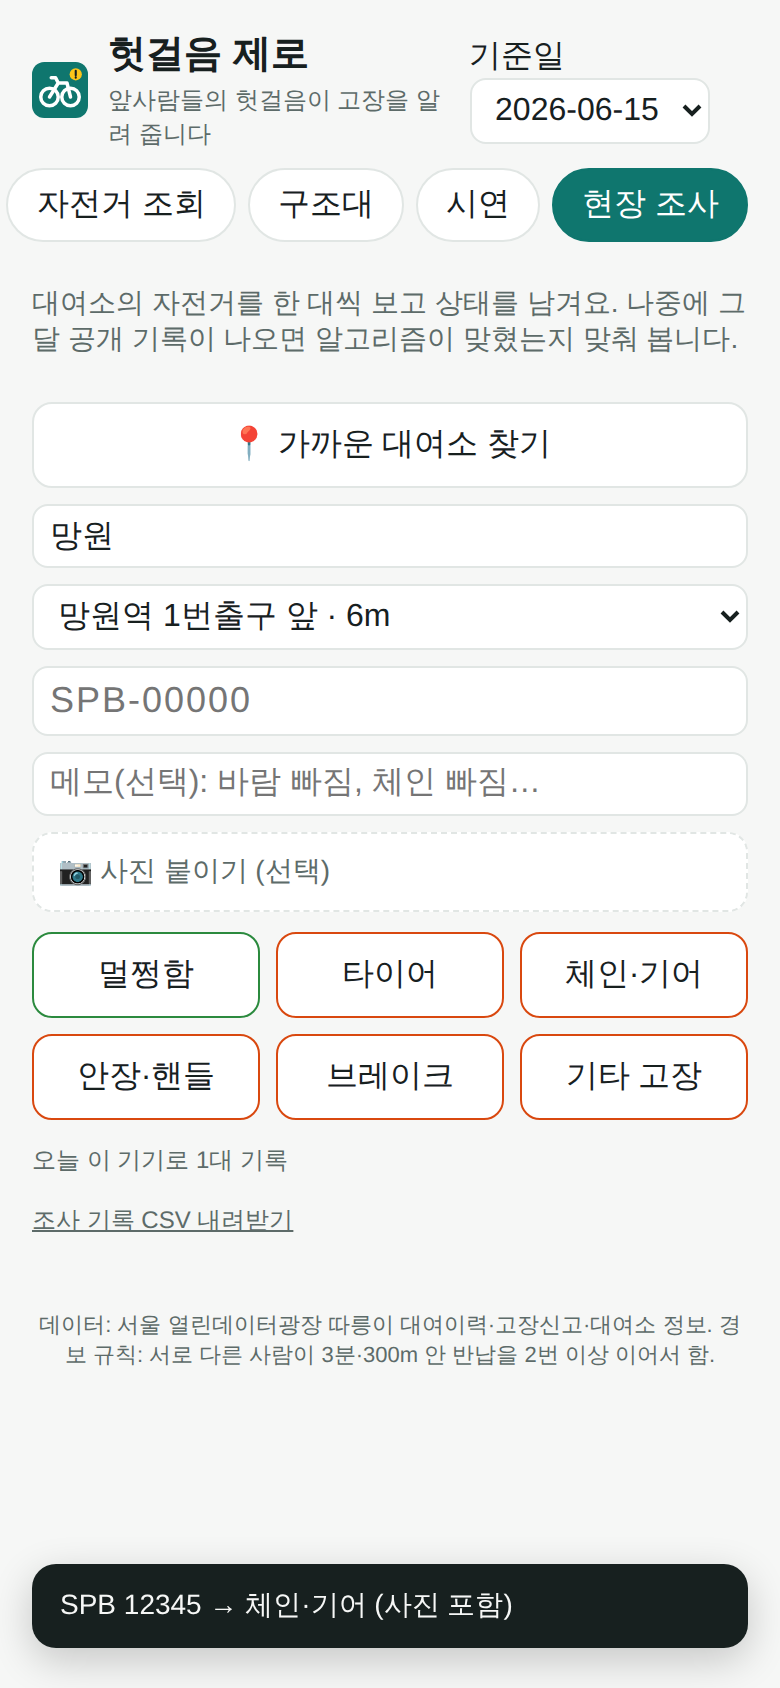
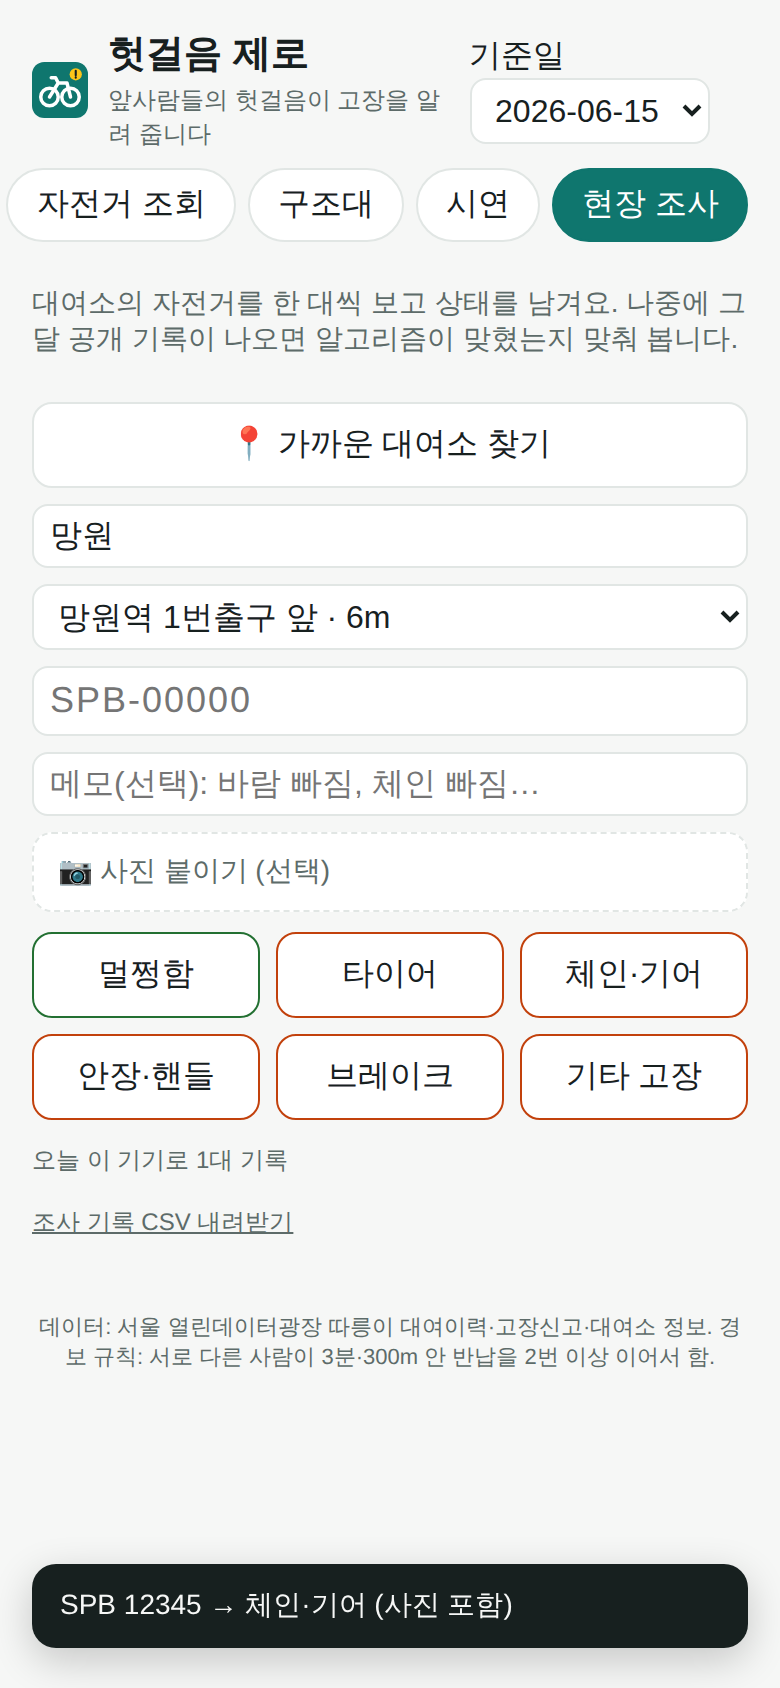
접근성: 탭 역할·입력칸 이름표·알림 읽어 주기, 글자 대비 4.5:1 검사(밝은·어두운 화면)와 색 고침

diff --git a/web/index.html b/web/index.html
@@ -19,19 +19,19 @@
   <div class="date"><label>기준일 <select id="day"></select></label></div>
 </header>
 
-<nav id="tabs">
-  <button data-tab="morning" class="on">아침 목록</button>
-  <button data-tab="lookup">자전거 조회</button>
-  <button data-tab="rescue">구조대</button>
-  <button data-tab="replay">시연</button>
-  <button data-tab="survey">현장 조사</button>
+<nav id="tabs" role="tablist" aria-label="화면">
+  <button data-tab="morning" role="tab" aria-controls="morning" aria-selected="true" class="on">아침 목록</button>
+  <button data-tab="lookup" role="tab" aria-controls="lookup" aria-selected="false">자전거 조회</button>
+  <button data-tab="rescue" role="tab" aria-controls="rescue" aria-selected="false">구조대</button>
+  <button data-tab="replay" role="tab" aria-controls="replay" aria-selected="false">시연</button>
+  <button data-tab="survey" role="tab" aria-controls="survey" aria-selected="false">현장 조사</button>
 </nav>
 
 <main>
-  <section id="morning" class="tab on">
+  <section id="morning" class="tab on" role="tabpanel">
     <div class="summary" id="morning-summary"></div>
     <div class="summary retro" id="morning-retro" hidden></div>
-    <div id="map"></div>
+    <div id="map" role="img" aria-label="의심 자전거가 있는 대여소 지도 (아래 목록과 같은 내용)"></div>
     <h2>정비 먼저 볼 곳</h2>
     <ol id="station-rank" class="rank"></ol>
     <h2>정비 동선 <span class="muted">(10곳을 도는 순서, 직선거리)</span></h2>
@@ -41,16 +41,16 @@
     <ul id="bike-list" class="bikes"></ul>
   </section>
 
-  <section id="lookup" class="tab">
+  <section id="lookup" class="tab" role="tabpanel">
     <p class="hint">따릉이를 빌리기 전에 자전거 번호(예: SPB-69683)를 넣거나 QR 을 비추세요.</p>
-    <form id="lookup-form"><input id="bike-input" placeholder="SPB-00000" autocomplete="off" autocapitalize="characters"><button>조회</button></form>
+    <form id="lookup-form"><input id="bike-input" aria-label="자전거 번호" placeholder="SPB-00000" autocomplete="off" autocapitalize="characters"><button>조회</button></form>
     <button id="scan-btn" class="secondary">QR 로 찍기</button>
     <video id="cam" playsinline muted hidden></video>
     <canvas id="cam-canvas" hidden></canvas>
-    <div id="lookup-result"></div>
+    <div id="lookup-result" aria-live="polite"></div>
   </section>
 
-  <section id="rescue" class="tab">
+  <section id="rescue" class="tab" role="tabpanel">
     <p class="hint">근처 의심 자전거를 3초만 봐 주세요. 확인 결과는 정비로 이어집니다.</p>
     <button id="rescue-near" class="secondary">📍 가까운 순서로</button>
     <div id="rescue-card"></div>
@@ -58,11 +58,11 @@
     <ul id="rescue-log" class="bikes"></ul>
   </section>
 
-  <section id="replay" class="tab">
+  <section id="replay" class="tab" role="tabpanel">
     <p class="hint">2026년 6월 15일 서울 따릉이 실제 기록을 빠르게 다시 돌립니다.</p>
     <div class="controls"><button id="play">▶ 재생</button><label>속도 <select id="speed"><option value="600">10분/초</option><option value="1800" selected>30분/초</option><option value="3600">1시간/초</option></select></label></div>
-    <div class="clock" id="clock">00:00</div>
-    <div id="replay-map"></div>
+    <div class="clock" id="clock" aria-live="off">00:00</div>
+    <div id="replay-map" role="img" aria-label="하루 재생 지도 (아래 숫자·기록과 같은 내용)"></div>
     <div class="legend"><span class="dot r"></span>경보 <span class="dot g"></span>막을 수 있던 헛걸음 <span class="dot b"></span>뒤늦은 고장 신고</div>
     <div class="counters">
       <div><b id="c-dud">0</b><span>헛대여</span></div>
@@ -72,13 +72,13 @@
     </div>
     <ul id="replay-feed" class="feed"></ul>
   </section>
-  <section id="survey" class="tab">
+  <section id="survey" class="tab" role="tabpanel">
     <p class="hint">대여소의 자전거를 한 대씩 보고 상태를 남겨요. 나중에 그달 공개 기록이 나오면 알고리즘이 맞혔는지 맞춰 봅니다.</p>
     <button id="near-btn" class="secondary">📍 가까운 대여소 찾기</button>
-    <input id="station-filter" placeholder="대여소 이름으로 찾기 (예: 망원역)" style="width:100%;margin-top:8px">
-    <select id="survey-station" style="width:100%;margin-top:8px"></select>
-    <form id="survey-form" style="margin-top:8px"><input id="survey-bike" placeholder="SPB-00000" autocomplete="off" autocapitalize="characters"></form>
-    <input id="survey-note" placeholder="메모(선택): 바람 빠짐, 체인 빠짐…" style="width:100%;margin-top:8px">
+    <input id="station-filter" aria-label="대여소 이름으로 찾기" placeholder="대여소 이름으로 찾기 (예: 망원역)" style="width:100%;margin-top:8px">
+    <select id="survey-station" aria-label="대여소" style="width:100%;margin-top:8px"></select>
+    <form id="survey-form" style="margin-top:8px"><input id="survey-bike" aria-label="조사한 자전거 번호" placeholder="SPB-00000" autocomplete="off" autocapitalize="characters"></form>
+    <input id="survey-note" aria-label="메모" placeholder="메모(선택): 바람 빠짐, 체인 빠짐…" style="width:100%;margin-top:8px">
     <label class="photo-btn"><input id="survey-photo" type="file" accept="image/*" capture="environment"><span id="survey-photo-label">📷 사진 붙이기 (선택)</span><img id="survey-thumb" alt="" hidden></label>
     <div class="choices three" id="survey-choices"></div>
     <p class="muted" id="survey-count"></p>

diff --git a/tests/web/smoke.js b/tests/web/smoke.js
@@ -26,6 +26,16 @@ const check = (ok, what) => { console.log((ok ? "  ✓ " : "  ✗ ") + what); if
   page.on("dialog", (d) => { errors.push("dialog: " + d.message()); d.dismiss(); });
   const shot = async (name) => { if (SHOTS) { fs.mkdirSync(SHOTS, { recursive: true }); await page.screenshot({ path: path.join(SHOTS, name + ".png") }); } };
   const tab = (t) => page.click(`#tabs button[data-tab="${t}"]`);
+  // 글자 대비 (WCAG AA 4.5:1) — 보이는 탭·머리글·탭 단추에서 기준 못 넘는 글자
+  const lowContrast = () => page.evaluate(() => {
+        const lum = (c) => { const v = c.match(/[\d.]+/g).slice(0, 3).map((x) => { x /= 255; return x <= 0.03928 ? x / 12.92 : ((x + 0.055) / 1.055) ** 2.4; }); return 0.2126 * v[0] + 0.7152 * v[1] + 0.0722 * v[2]; };
+        const bg = (el) => { for (; el; el = el.parentElement) { const c = getComputedStyle(el).backgroundColor; if (c && !/, 0\)$/.test(c) && c !== "transparent") return c; } return "rgb(255,255,255)"; };
+        return [...document.querySelectorAll(".tab.on *, header *, nav *")].filter((el) => el.offsetParent &&
+          [...el.childNodes].some((n) => n.nodeType === 3 && n.textContent.trim())).map((el) => {
+          const a = lum(getComputedStyle(el).color), b = lum(bg(el));
+          return [(Math.max(a, b) + 0.05) / (Math.min(a, b) + 0.05), el.textContent.trim().slice(0, 12)]; }).filter(([r]) => r < 4.5);
+      });
+
   try {
     await page.goto(URL, { waitUntil: "networkidle" });
     console.log("아침 목록");
@@ -114,6 +124,13 @@ const check = (ok, what) => { console.log((ok ? "  ✓ " : "  ✗ ") + what); if
     check(pr.ok && pb[0] === 0xff && pb[1] === 0xd8 && pb.length < 300000, `사진이 줄어 JPEG 로 저장 (${Math.round(pb.length / 1024)}KB)`);
     check(await page.$eval("#survey-thumb", (i) => i.hidden), "저장 뒤 사진 칸 비움");
     await shot("5_survey");
+    console.log("글자 대비 (다섯 탭 × 밝은·어두운 화면)");
+    const low = [];
+    for (const cs of ["light", "dark"]) {
+      await page.emulateMedia({ colorScheme: cs });
+      for (const t of ["morning", "lookup", "rescue", "replay", "survey"]) { await tab(t); (await lowContrast()).forEach((x) => low.push([cs, t, ...x])); }
+    }
+    check(low.length === 0, "4.5:1 이상" + (low.length ? ": " + JSON.stringify(low.slice(0, 4)) : ""));
     check(errors.length === 0, "화면 오류 없음" + (errors.length ? ": " + errors.slice(0, 3).join(" | ") : ""));
   } catch (e) {
     fails.push(e.message);

diff --git a/web/style.css b/web/style.css
@@ -1,6 +1,6 @@
 :root {
   --bg: #f6f7f6; --card: #ffffff; --fg: #17201f; --muted: #5d6b69; --line: #e1e6e4;
-  --accent: #0f766e; --yellow: #d99a06; --red: #d9480f; --good: #2b8a3e;
+  --accent: #0f766e; --yellow: #d99a06; --red: #c2410c; --good: #237032;
 }
 @media (prefers-color-scheme: dark) {
   :root { --bg: #111615; --card: #1a2120; --fg: #e8eeec; --muted: #9aa8a5; --line: #2b3533;
@@ -65,3 +65,8 @@ footer { color: var(--muted); font-size: 11px; padding: 12px 16px 28px; text-ali
 .retro { border-color: var(--accent); }
 .route li.total { justify-content: flex-start; color: var(--muted); }
 .route-num { background: var(--accent); color: #fff; border-radius: 50%; font: 700 11px/20px sans-serif; text-align: center; box-shadow: 0 0 0 2px #fff; }
+@media (prefers-color-scheme: dark) {   /* 밝은 청록 바탕에 흰 글자는 대비 1.9:1 → 어두운 글자 */
+  button, nav button.on, .route-num, .tag { color: #0b1514; }
+  button.secondary, .choices button { color: var(--fg); }
+}
+.tag.노랑 { color: #1c1400; }   /* 노랑 바탕엔 흰 글자가 안 읽힘 */

diff --git a/web/app.js b/web/app.js
@@ -14,7 +14,7 @@ async function getJSON(path) {
 // ── 탭
 document.querySelectorAll("#tabs button").forEach((b) =>
   b.addEventListener("click", () => {
-    document.querySelectorAll("#tabs button").forEach((x) => x.classList.toggle("on", x === b));
+    document.querySelectorAll("#tabs button").forEach((x) => { x.classList.toggle("on", x === b); x.setAttribute("aria-selected", x === b); });
     document.querySelectorAll(".tab").forEach((t) => t.classList.toggle("on", t.id === b.dataset.tab));
     if (b.dataset.tab === "morning" && state.map) setTimeout(() => state.map.invalidateSize(), 50);
     if (b.dataset.tab === "rescue") renderRescue();
@@ -225,7 +225,7 @@ window.rescueSave = async (bike, verdict) => {
 };
 function toast(msg) {
   const t = document.createElement("div");
-  t.className = "toast"; t.textContent = msg;
+  t.className = "toast"; t.textContent = msg; t.setAttribute("role", "status");   // 화면 읽기 프로그램이 읽어 줌
   document.body.appendChild(t);
   setTimeout(() => t.remove(), 3200);
 }

diff --git a/PLAN.md b/PLAN.md
@@ -131,4 +131,7 @@
   함정: 마크다운 변환기가 "12~23%" 의 물결표 한 쌍을 취소선으로 바꿈 → 물결표 이스케이프.
 - 2026-09-24 앱 기능 셋(있는 자료만으로): 정비 동선(`web/route.js`, 탐욕법 + 2-opt, 위치를 켜면 내 근처 10곳), 구조대 가까운 순, 아침 목록 뒤돌아 채점
   (시연 날짜 6/15: 목록이 나온 뒤 첫 이용자 77명 중 29명 38% 또 반납). 대여소 이름 앞 빈칸(2,789곳 중 2,003곳) 정리. 동선 단위 검사 + 화면 검사 늘림.
+- 2026-09-24 접근성: 탭 역할(tablist/tab/tabpanel), 입력칸 이름표, 알림을 화면 읽기 프로그램이 읽게(role=status), 지도 설명.
+  글자 대비 검사(WCAG AA 4.5:1, 다섯 탭 × 밝은·어두운 화면)를 화면 검사에 넣었더니 어두운 화면의 청록 단추 흰 글자 1.9:1, 빨강 태그 2.3:1,
+  밝은 화면 빨강 4.3·초록 4.1 이 걸림 → 어두운 화면은 어두운 글자, 빨강 #c2410c·초록 #237032 로.
 - 현재 사용자 없이 할 수 있는 큰 일은 거의 끝남. 남은 것: 키 1·2(실시간·자전거별 일별·충전기), 현장 조사, 대회 정보, Xcode(네이티브 앱), https 결정.
